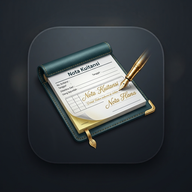
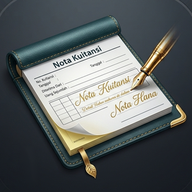
v6

diff --git a/README.md b/README.md
@@ -56,3 +56,6 @@ Jam notifikasi reminder nota bisa diatur (default 08.00) dan reminder otomatis b
 
 ## Versi 14
 Banner reminder di tab Utang dan Beranda bisa diketuk: langsung pindah ke tab Utang, menggulir ke faktur yang dimaksud, dan faktur itu disorot (latar lebih gelap + garis emas). Ketuk notifikasi Android juga langsung menyorot fakturnya.
+
+## Versi 15
+Ikon aplikasi diperbesar: gambar dipotong ke area kotak dalam sehingga buku nota memenuhi ikon (icon-192.png dan icon-512.png). icon-maskable-512.png tidak diubah.
